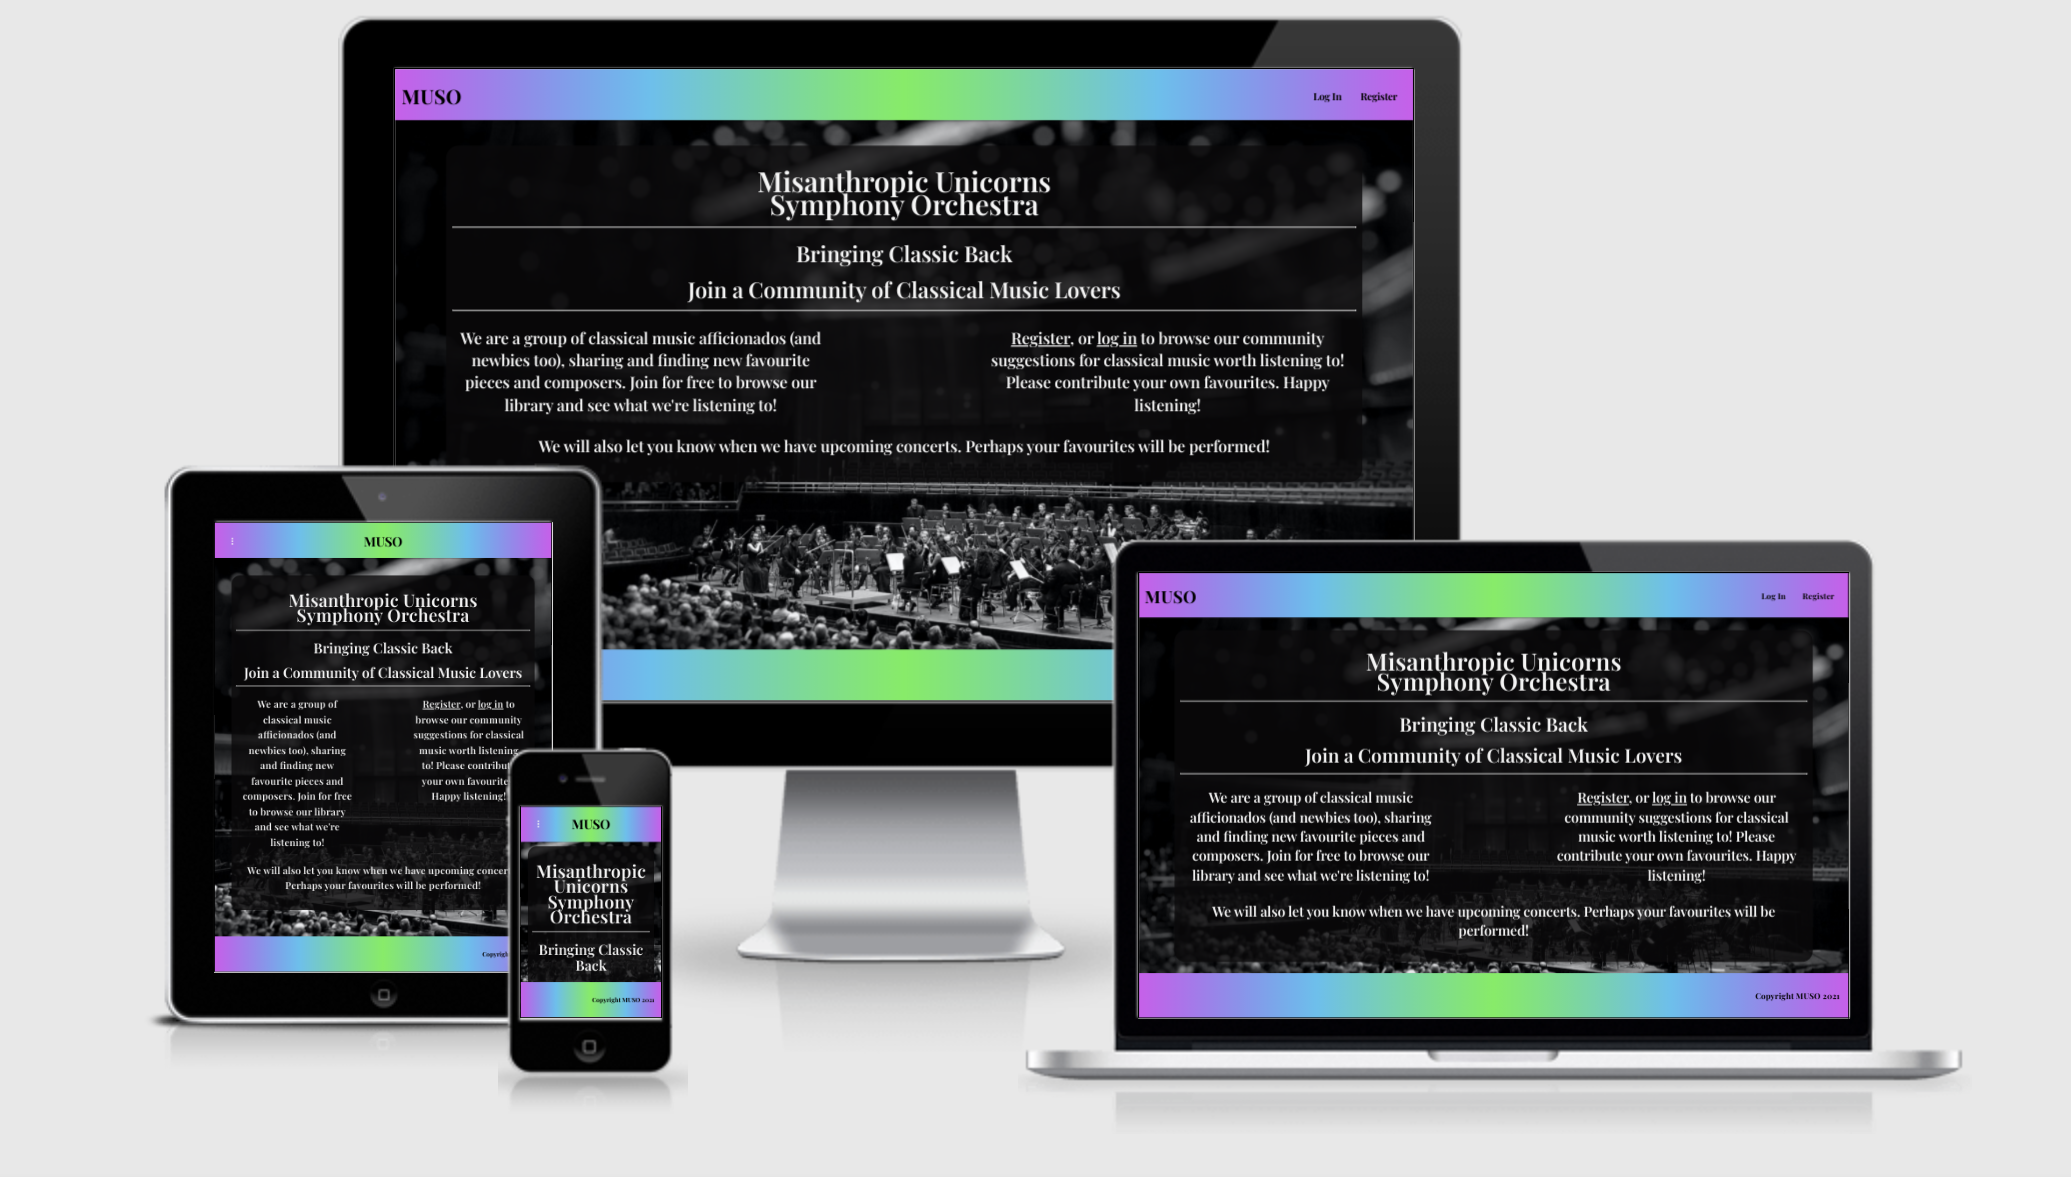
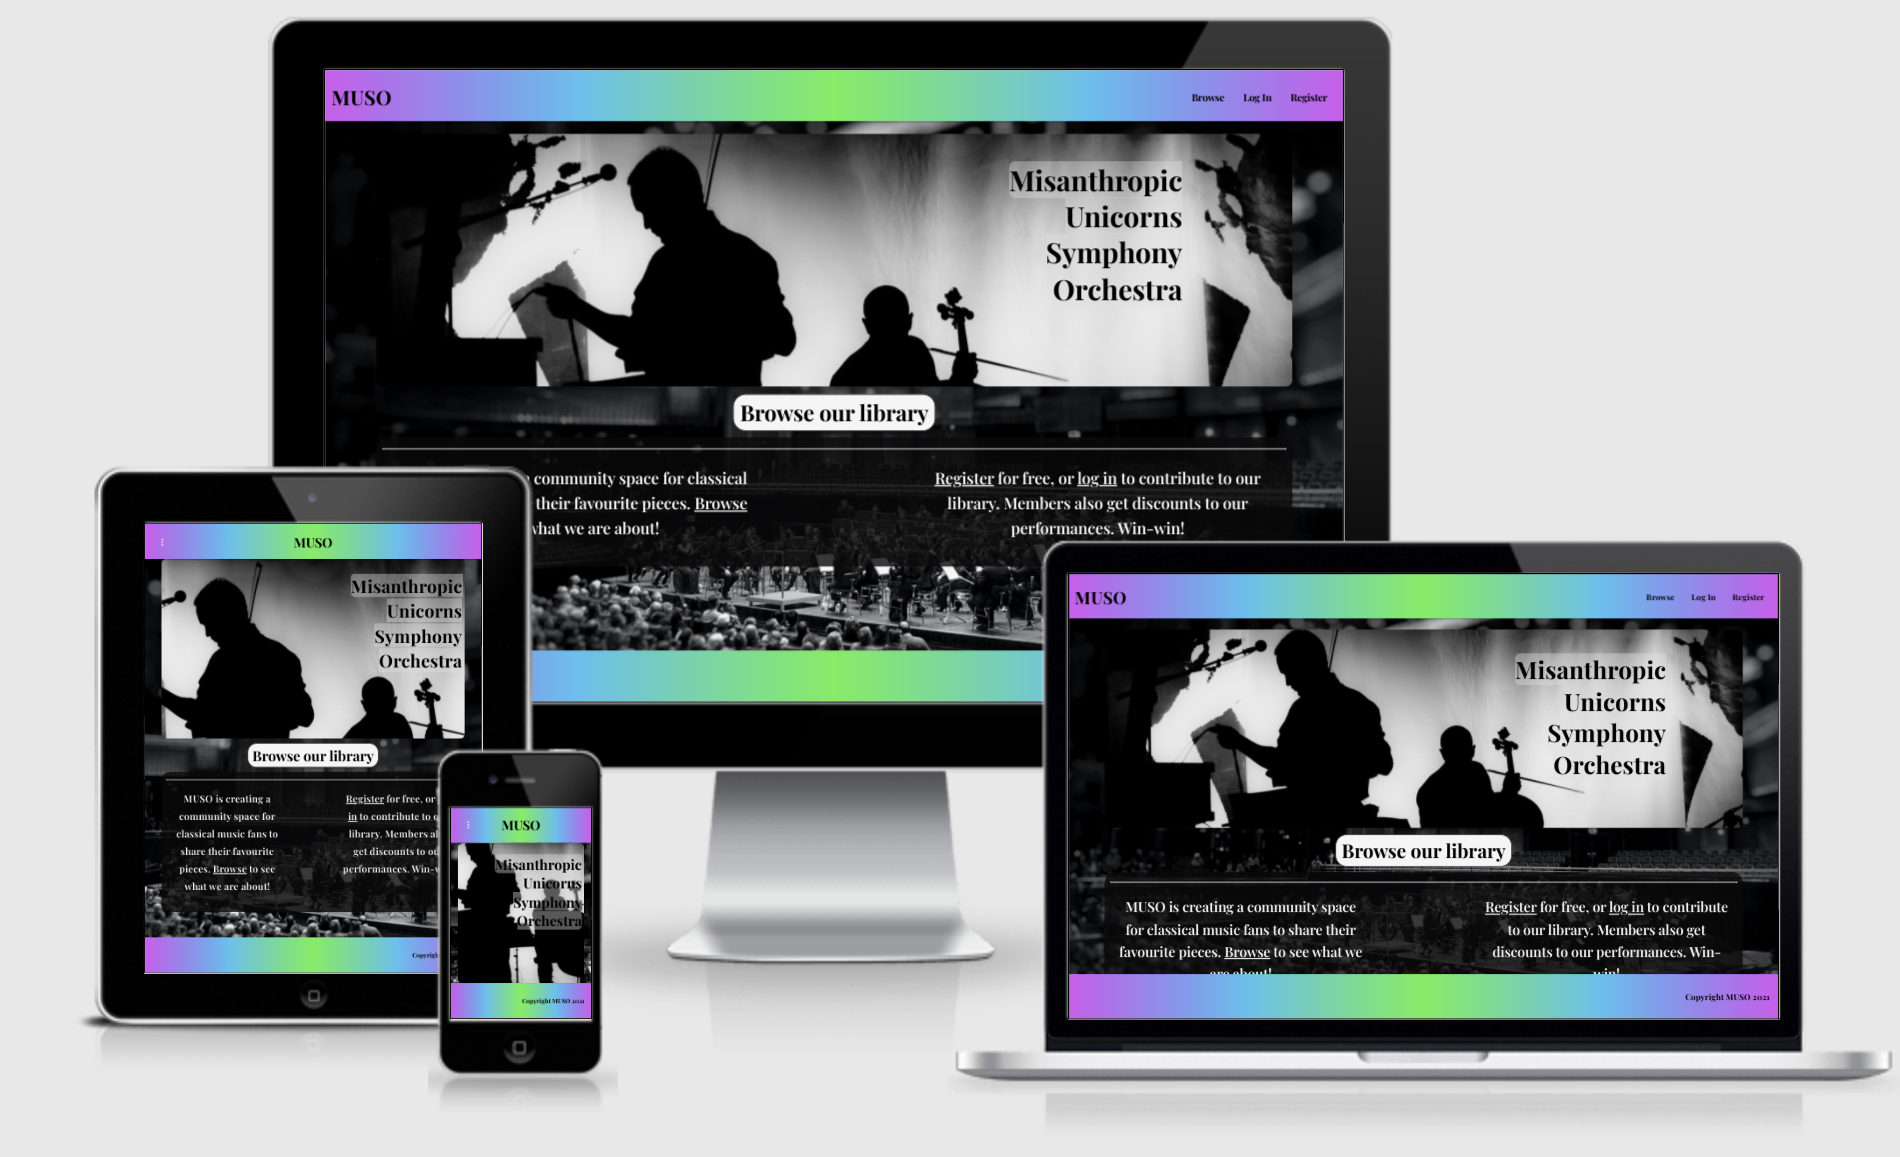
changed screens image to reflect new home screen, restyled browse and home  pages for small screens

diff --git a/templates/browse.html b/templates/browse.html
@@ -12,6 +12,9 @@
         <div class="carousel-item white-text" href="#one!">
             <h2>{{ work.composer }}</h2>
             <h2>{{ work.work }}</h2>
+            <div class="hide-on-med-and-up valign-center navButtons">
+                <i class="fas fa-backward left"></i>
+                <i class="fas fa-forward right"></i></div>
             <p class="white-text">{{ work.description }}</p>
             {% if work.image and work.image.composer_image|length != 0 %}
             <div class="imageContainer">
@@ -28,9 +31,7 @@
             <a class="spotifyButton" href="{{ work.url }}" target="_blank">Listen Here <i
                     class="fab fa-spotify"></i></a>
             {% endif %}
-            <div class="hide-on-med-and-up valign-center navButtons">
-                <i class="fas fa-backward left"></i>
-                <i class="fas fa-forward right"></i></div>
+
             {% if username == work.user_added or username == "admin" %}
             <div class="row center editDeleteButtons valign-bottom">
                 <a href="{{ url_for('edit_info', work_id=work._id) }}" class="regularButton btn">Edit</a>

diff --git a/templates/browselogout.html b/templates/browselogout.html
@@ -12,6 +12,9 @@
         <div class="carousel-item white-text" href="#one!">
             <h2>{{ work.composer }}</h2>
             <h2>{{ work.work }}</h2>
+            <div class="hide-on-med-and-up valign-center navButtons">
+                <i class="fas fa-backward left"></i>
+                <i class="fas fa-forward right"></i></div>
             <p class="white-text">{{ work.description }}</p>
             {% if work.image and work.image.composer_image|length != 0 %}
             <div class="imageContainer">
@@ -28,9 +31,7 @@
             <a class="spotifyButton" href="{{ work.url }}" target="_blank">Listen Here <i
                     class="fab fa-spotify"></i></a>
             {% endif %}
-            <div class="hide-on-med-and-up valign-center navButtons">
-                <i class="fas fa-backward left"></i>
-                <i class="fas fa-forward right"></i></div>
+
 
         </div>
 

diff --git a/templates/home.html b/templates/home.html
@@ -42,11 +42,12 @@
 {% else %}
 <div class="imageCard">
 
-    <h3 class="right-align hide-on-small-only black-text">
-        Misanthropic<br>Unicorns<br>Symphony<br>Orchestra<br><br><br><br></h3>
-    <h4 class="right-align hide-on-med-and-up black-text">
-        Misanthropic<br>Unicorns<br>Symphony<br>Orchestra<br><br><br><br>
-    </h4>
+    <h3 class="right-align hide-on-small-only "><span class="black-text imageCardText">
+            Misanthropic<br>Unicorns<br>Symphony<br>Orchestra</span><br><br></h3>
+
+
+    <h4 class="right-align hide-on-med-and-up "><span class="black-text imageCardText">
+            Misanthropic<br>Unicorns<br>Symphony<br>Orchestra</span><br><br><br><br></h4>
 
 
 </div>

diff --git a/static/css/style.css b/static/css/style.css
@@ -70,7 +70,7 @@ html * {
 }
 
 .imageCardText {
-    background-color: rgba(223, 223, 223, 0.4);
+    background-color: rgba(223, 223, 223, 0.6);
     line-height: 43px;
     border-radius: 10px;
 }
@@ -136,7 +136,7 @@ html * {
 
 .carousel {
     margin-top: 20px;
-    min-height: 60vh;
+    min-height: 70vh;
 }
 
 .carousel.carousel-slider .carousel-item h2 {
@@ -271,6 +271,10 @@ html * {
         padding-right: 12%;
         padding-top: 15px;
         padding-bottom: 20px;
+    }
+
+    .imageCardText {
+        background-color: rgba(223, 223, 223, 0.4);
     }
 }
 
